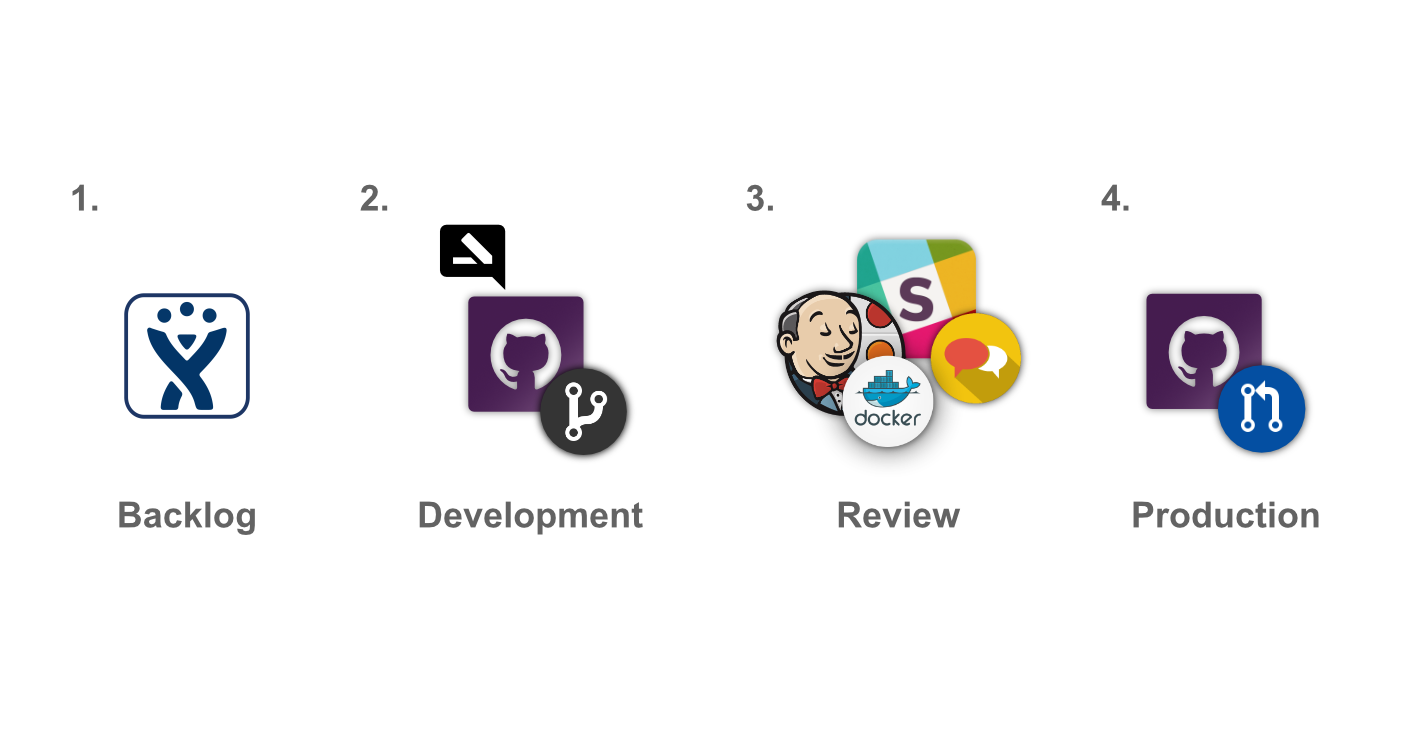
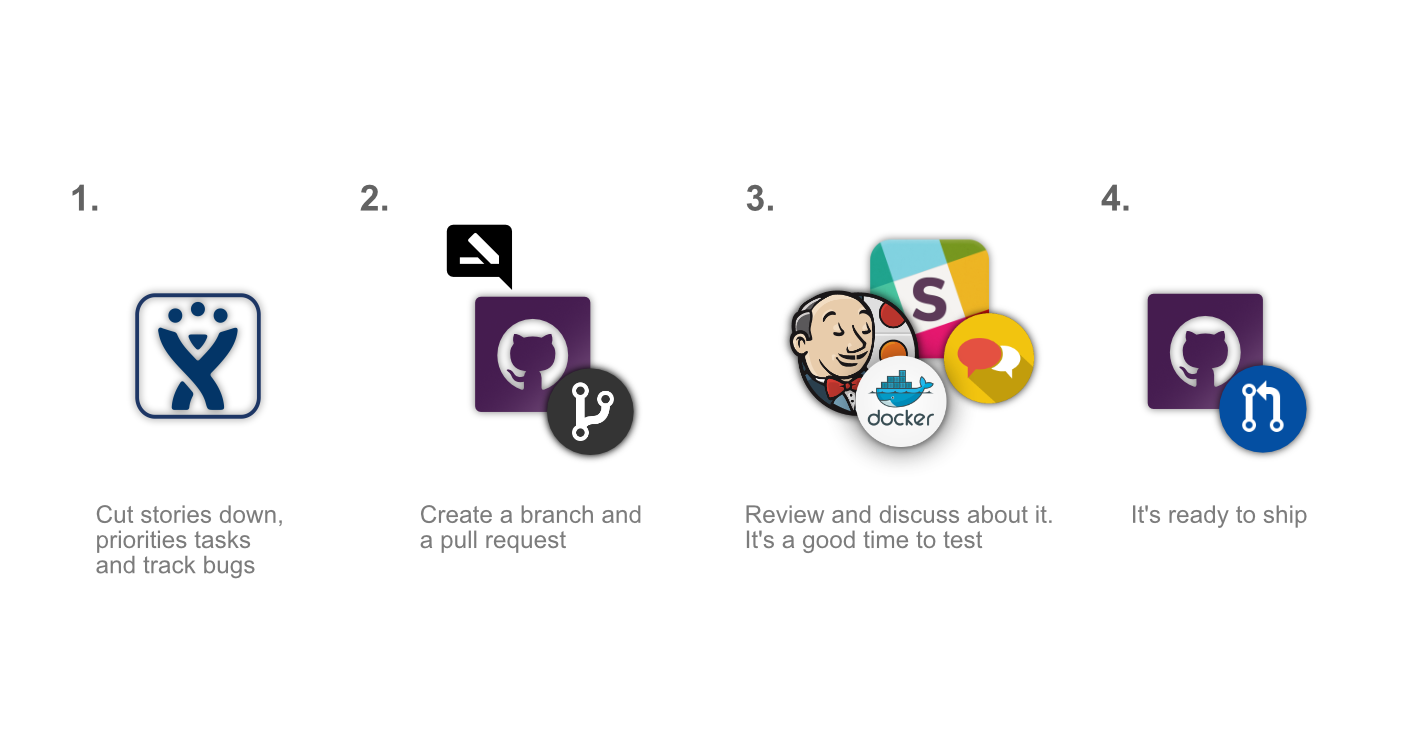
Update workflow diagram legends

diff --git a/style.css b/style.css
@@ -132,7 +132,7 @@ blockquote cite a {
 }
 
 .Workflow {
-    background: url("images/workflow.png") no-repeat bottom #FF9800;
+    background: url("images/workflow.png") no-repeat bottom;
     background-size: 100%;
     padding: 0 !important;
 }
